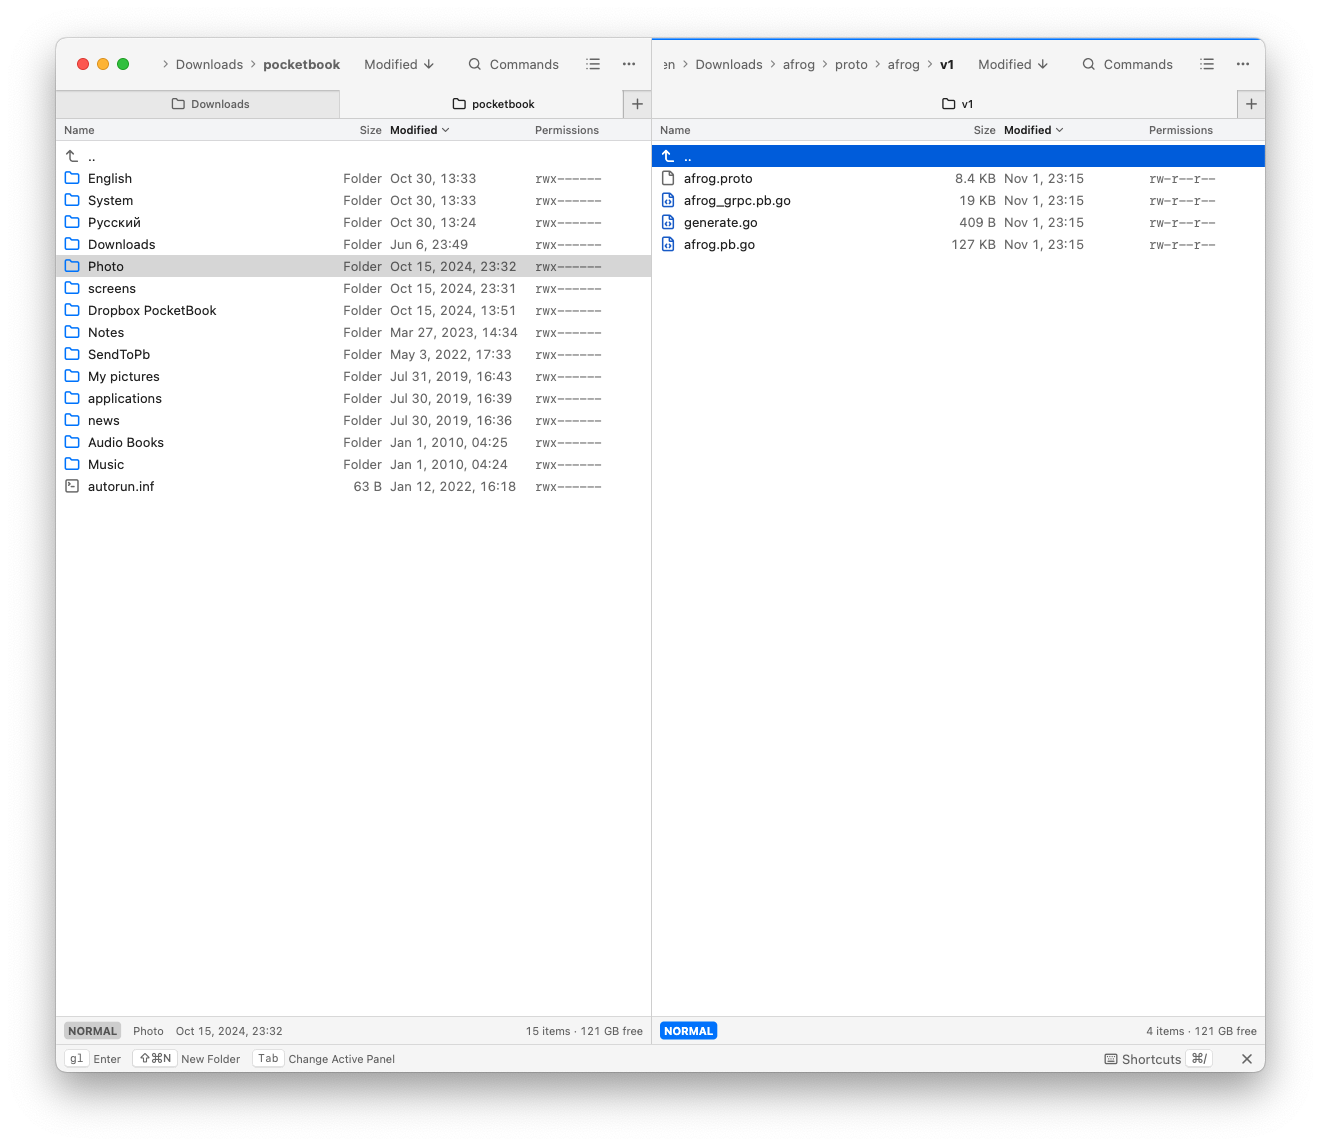
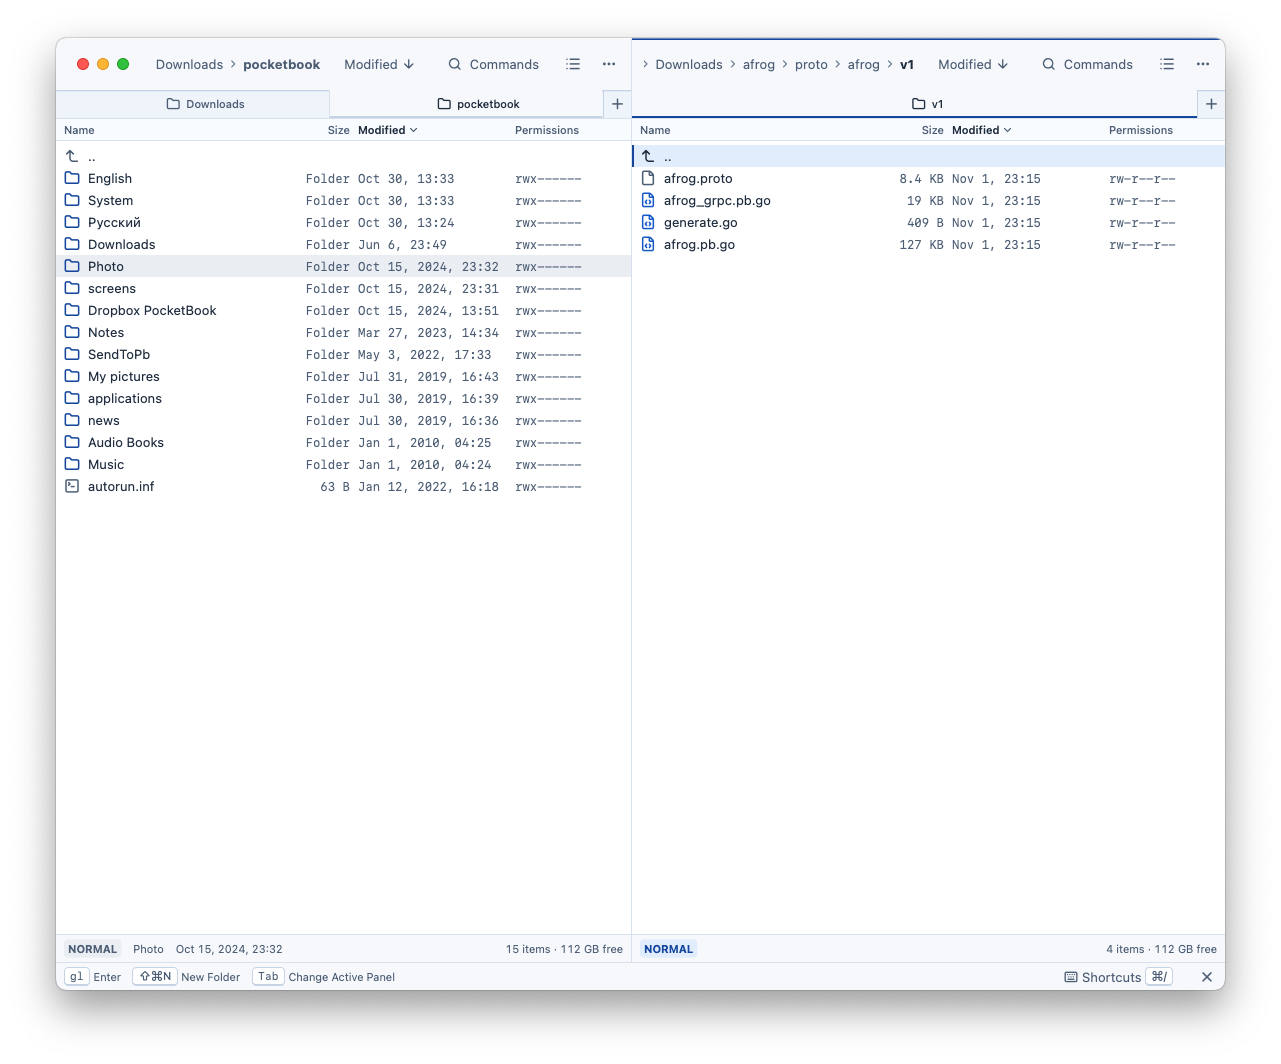
Add app UI example

Changed region(s): [[0.0312, 0.031, 0.968, 0.4652], [0.0312, 0.8684, 0.968, 0.9615]]

diff --git a/README.md b/README.md
@@ -7,12 +7,7 @@ orthodox two-panel workflow of the classic commanders with a compact blue
 interface and each desktop's conventions. The interface is Flutter; file
 listings, operations and the filesystem core are Rust.
 
-![Ferryx Balanced light theme with two file panels, folder tabs, separate cursor and selection, and contextual keyboard hints](docs/screenshots/ferryx-balanced-light.png)
-
-Flutter UI with sample files, rendered at 1280 × 800 using macOS metrics;
-native window buttons are outside this preview.
-[Dark appearance](docs/screenshots/ferryx-balanced-dark.png) ·
-[Earlier macOS window screenshot](docs/screenshots/ferryx-macos.png).
+![Ferryx on macOS in the Balanced light theme, with pocketbook and afrog/v1 directories, folder tabs and contextual keyboard hints](docs/screenshots/ferryx-macos.png)
 
 ## Features
 
